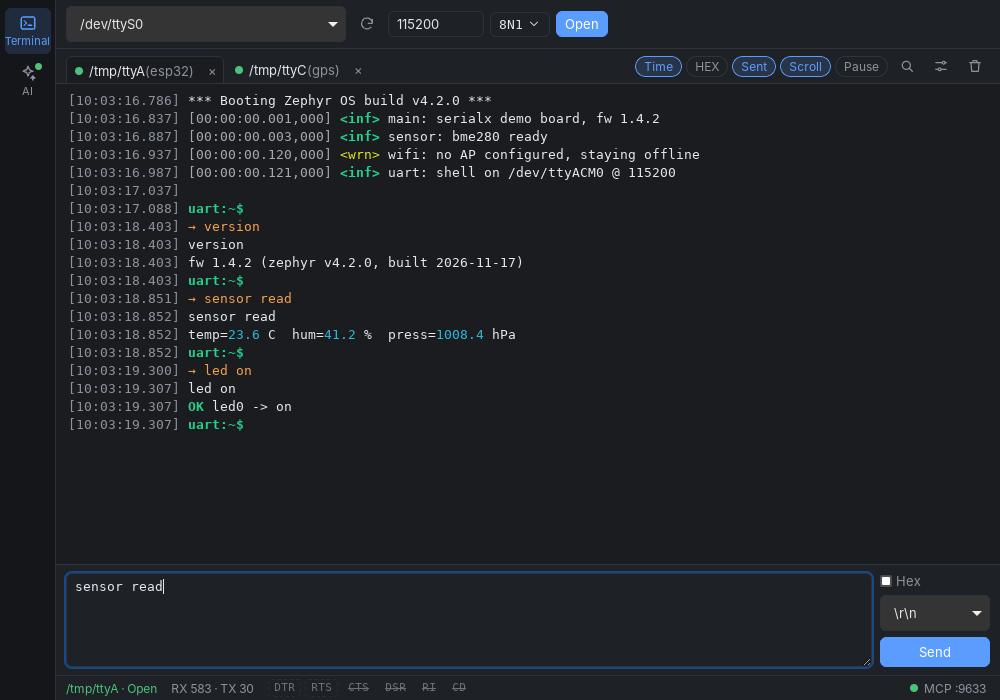
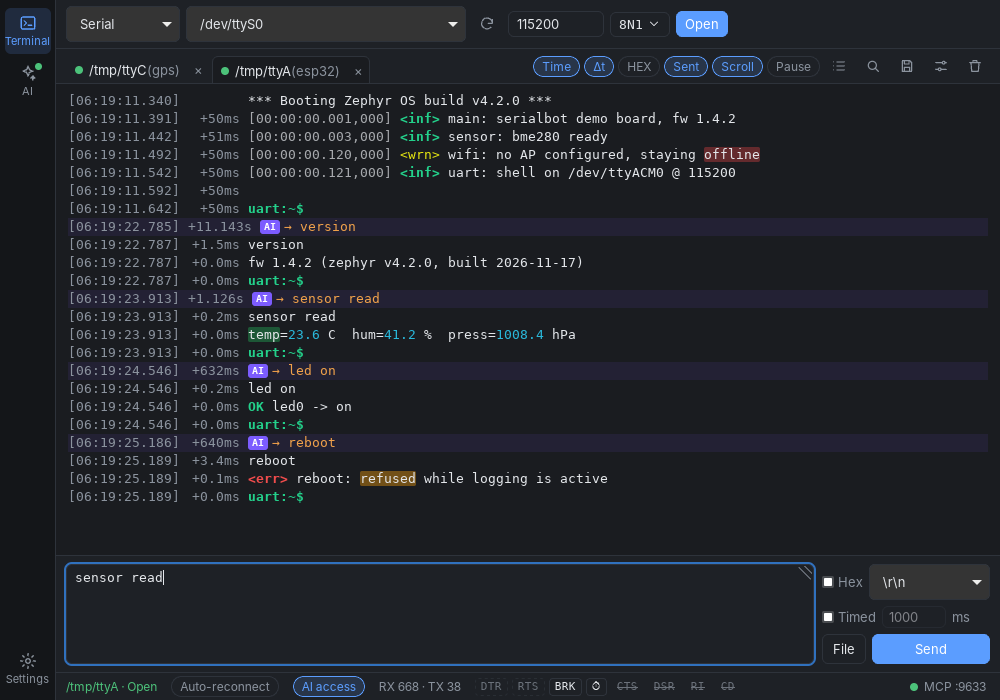
docs: regroup the README features and refresh the screenshots (#52)

diff --git a/README.md b/README.md
@@ -8,65 +8,78 @@
 
 [![CI](https://github.com/jerry-token/serialbot/actions/workflows/ci.yml/badge.svg)](https://github.com/jerry-token/serialbot/actions/workflows/ci.yml)
 [![Release](https://img.shields.io/github/v/release/jerry-token/serialbot?include_prereleases&label=release&color=orange)](https://github.com/jerry-token/serialbot/releases)
-![Platforms](https://img.shields.io/badge/platform-Windows%20%7C%20macOS%20%7C%20Linux-blue)
+![Platforms](https://img.shields.io/badge/platform-Windows%20%7C%20macOS%20%7C%20Linux%20%28x64%2C%20arm64%29-blue)
 [![License](https://img.shields.io/badge/license-GPL--3.0-green)](LICENSE)
 
 English · [简体中文](README.zh-CN.md)
 
-<img src="docs/images/demo.gif" width="800" alt="An AI agent opens a port over MCP, sends commands and waits for replies while the window shows every step">
+<img src="docs/images/demo.gif" width="800" alt="An AI agent asks to open a port and send commands; the user approves and the commands appear in the log tagged AI">
 
-<sub>☝ Claude Code opens a dev board's port over MCP, sends commands and waits for the replies. The window shows every step.</sub>
+<sub>☝ An AI agent opens a dev board's port over MCP and sends commands. You approve, and every step shows up in the window, tagged AI.</sub>
 
 </div>
 
 > [!NOTE]
-> 🚧 **Alpha.** The basics work. Please try it and [report problems](https://github.com/jerry-token/serialbot/issues).
+> 🚧 **Alpha.** Everyday debugging and AI control work. Please try it and [report problems](https://github.com/jerry-token/serialbot/issues).
 
 ## ✨ Features
 
-- 🪶 **Lightweight**: a Windows installer of about 4.5 MB, or a portable exe of about 19 MB that runs without installing.
-- 💻 **Cross-platform**: Windows, macOS (Apple Silicon and Intel) and Linux (x64 and arm64).
-- 🗂 **Many ports at once**: one tab per port, each with its own log and counters.
-- 🌈 **Receive view**:
-  - text or HEX, with millisecond timestamps
-  - **ANSI colors** (Zephyr, ESP-IDF and other colored logs)
-  - encodings: UTF-8, GBK, GB18030, Big5, Shift_JIS and more
-  - auto frame split, pause, `Ctrl/Cmd+F` search
-  - stays smooth with tens of thousands of lines
-- ✍ **Send**: multi-line text or HEX, with a choice of line ending. `Enter` sends, `Shift+Enter` adds a line, `↑` recalls history; timed send.
-  Data goes out as raw bytes, exactly as typed: no framing or protocol is added, only the line ending you pick (none for HEX).
-- 🧮 **Checksums** for HEX data: CRC-8, CRC-16 (Modbus, CCITT), CRC-32, XOR, SUM8 and LRC are appended as you send.
-- 🔎 **Search and filter**: `Ctrl/Cmd+F` finds text in the log; "Only matching lines" hides the rest. **Δt** shows the time since the line before, which in HEX view is the gap between frames.
-- 🖍 **Keyword highlight**: list words such as `ERROR` or `WARN` in the display settings (⚙) and they are marked in color wherever they appear.
-- ⚙ **Settings**: light, dark or system theme, log font size, how many lines each session keeps, and keeping the window on top.
-- 📋 **Command lists**: saved commands in groups; click one to send it, or run a group in order with a delay after each.
-- 📄 **Send a file** in chunks, with an optional pause between chunks for devices without flow control.
-- 💾 **Save the log** once or keep writing it to a file as data arrives.
-- 🌐 **TCP and UDP** besides serial ports: TCP client, TCP server (one client at a time, connects and leaves are logged) and UDP. Pick the type at the left of the connection bar; for AI agents, open `tcp://host:port`, `tcp-server://:port` or `udp://host:port?local=:port` like a port.
-- 🔁 **Auto-reconnect**: unplug and replug the adapter and the session carries on; the port list follows hot-plug.
-- 🎛 **Signals**: DTR / RTS switches, CTS / DSR / RI / CD lamps, and every change is marked in the log.
-  BRK sends a BREAK; ⏱ runs a timed DTR/RTS sequence such as `DTR=0 RTS=1, 100, RTS=0` (a reset pulse).
-- 🤖 **AI-ready**: a built-in MCP server lets Claude Code and other agents
-  - list and open ports
-  - send data and wait for a matching reply
-  - drive DTR / RTS
+**Light and everywhere**
+- 🪶 A Windows installer of about 4.5 MB, or a portable exe of about 19 MB that runs without installing.
+- 💻 Windows, macOS (Apple Silicon and Intel) and Linux (x64 and arm64, Raspberry Pi included).
 
-  A port you opened in the window can be used by the agent, and everything the agent sends shows up in the window,
-  tinted and tagged **AI**. Turn off **AI access** in the status bar to keep a session away from agents.
-  Before an agent sends data, toggles a line or opens, closes or reconfigures a port, SerialBot asks you:
-  allow once, allow for the session, or deny (unanswered requests are refused after 60 s).
-  You can turn the question off in the MCP settings.
+**Connect**
+- 🗂 Many ports at once: one tab per port, each with its own log and counters.
+- 🌐 TCP client, TCP server and UDP besides serial ports; pick the type at the left of the connection bar.
+- 🔁 Unplug and replug the adapter and the session carries on; the port list follows hot-plug.
+- 🎛 DTR / RTS switches, CTS / DSR / RI / CD lamps, **BRK** for a BREAK, and **⏱** for a timed DTR/RTS sequence such as `DTR=0 RTS=1, 100, RTS=0` (a reset pulse). Every change is marked in the log.
+
+**Receive**
+- 🌈 Text or HEX with millisecond timestamps, **ANSI colors** (Zephyr, ESP-IDF and other colored logs), and encodings such as UTF-8, GBK, GB18030, Big5 and Shift_JIS.
+- ✂ Auto frame split by gap; **Δt** shows the time since the line before, so in HEX view you see the gaps between frames.
+- 🔎 `Ctrl/Cmd+F` search, "only matching lines" filter, and **keyword highlight** (`ERROR`, `WARN`, … in ⚙).
+- ⏸ Pause, and smooth scrolling through tens of thousands of lines.
+- 💾 Save the log once, or keep writing it to a file as data arrives.
+
+**Send**
+- ✍ Multi-line text or HEX with a choice of line ending. `Enter` sends, `Shift+Enter` adds a line, `↑` recalls history. Data goes out as raw bytes, exactly as typed: only the line ending you pick is added.
+- 🧮 Checksums appended to HEX data: CRC-8, CRC-16 (Modbus, CCITT), CRC-32, XOR, SUM8, LRC.
+- ⏲ Timed send, 📋 saved command lists (click to send, or run a group in order), and 📄 file send in chunks.
+
+**AI agents, under your control**
+- 🤖 A built-in MCP server lets Claude Code, Claude Desktop and other agents list and open ports, send data, wait for replies and drive DTR / RTS, on the same sessions you see in the window.
+- ✅ Before an agent sends data, toggles a line or opens, closes or reconfigures a port, SerialBot asks you: **allow once**, **allow for the session**, or **deny** (unanswered requests are refused after 60 s).
+- 🟣 Everything an agent did is tagged **AI** in the log; **AI access** in the status bar keeps a session away from agents.
+- 🔒 The server is off until you turn it on, listens on `127.0.0.1` only and needs a token.
+
+**Comfortable**
+- 🌗 Light, dark or system theme; log font size; lines kept per session; keep the window on top.
+- 🌏 English and Chinese.
 
 ## 📸 Screenshots
 
 | Dark | Light |
 |:---:|:---:|
-| <img src="docs/images/terminal-dark.png" alt="Terminal page in the dark theme"> | <img src="docs/images/terminal-light.png" alt="Terminal page in the light theme"> |
+| <img src="docs/images/terminal-dark.png" alt="Terminal in the dark theme: an agent's commands tagged AI, keywords highlighted, Δt column"> | <img src="docs/images/terminal-light.png" alt="The same terminal in the light theme"> |
+
+<details>
+<summary>✅ Approving what an AI agent wants to do</summary>
+
+<img src="docs/images/approval.png" width="800" alt="Dialog: an AI agent wants to write version to /tmp/ttyA; Allow, Allow for this session, Deny">
+
+</details>
 
 <details>
 <summary>🤖 AI page: MCP server settings</summary>
 
-<img src="docs/images/ai-dark.png" width="800" alt="AI page with the MCP server enabled and the claude mcp add command">
+<img src="docs/images/ai-dark.png" width="800" alt="AI page with the MCP server enabled, the confirmation setting and the Claude Code and Claude Desktop snippets">
+
+</details>
+
+<details>
+<summary>⚙ Settings</summary>
+
+<img src="docs/images/settings-dark.png" width="800" alt="Settings page: theme, log font size, lines kept, keep on top">
 
 </details>
 
@@ -102,9 +115,9 @@ Get the file for your system from [Releases](https://github.com/jerry-token/seri
 ## 🚀 Quick start
 
 1. 🔌 Plug in a USB-serial adapter, pick the port at the top and set the baud rate. Data bits, parity, stop bits and flow control are under `8N1 ▾`. Then press **Open**.
-2. 📥 The receive view shows timestamps by default. The chips at the top right switch HEX view, sent data, auto-scroll and pause. 🔍 searches; ⚙ sets the encoding, frame gap and ANSI colors.
+2. 📥 The receive view shows timestamps by default. The chips at the top right switch Δt, HEX view, sent data, auto-scroll and pause. 🔍 searches; ⚙ sets the encoding, frame gap, ANSI colors and highlighted keywords.
 3. 📤 Type a command in the box at the bottom and press `Enter`. Tick HEX to send bytes such as `01 03 00 00`.
-4. 🎛 To reset a board, use **DTR / RTS** in the status bar.
+4. 🎛 To reset a board, use **DTR / RTS** in the status bar, or **⏱** for a timed sequence.
 
 > [!TIP]
 > Keep flow control at "None" unless your board wires CTS. With RTS/CTS on and CTS inactive, nothing gets sent.
@@ -118,6 +131,7 @@ Get the file for your system from [Releases](https://github.com/jerry-token/seri
      --header "Authorization: Bearer <your token>"
    ```
 3. Ask Claude Code: *"List the serial ports, open the ESP32 one and send `version`."* 🎉
+4. ✅ SerialBot asks before the agent opens the port or sends anything. Pick **Allow for this session** to stop being asked for that port, or untick "Ask before AI agents send data or change a port" on the AI page.
 
 **Claude Desktop** (and other clients that only start stdio servers): copy the second snippet on the AI page into `claude_desktop_config.json`. It runs `serialbot mcp`, a small bridge to the running app, so SerialBot must be open with the MCP server on:
 
@@ -143,22 +157,17 @@ On Windows the command is the path of `serialbot.exe` (installed or portable); o
 
 ## 🗺 Roadmap
 
-- [x] Serial I/O, multiple sessions, timestamps, HEX
-- [x] ANSI colors, encodings, frame split, search, smooth large logs
-- [x] DTR / RTS and line states
-- [x] Built-in MCP server
-- [x] Installers for all three platforms, published automatically
-- [x] Timed send, send history
-- [x] Send a file
-- [x] Command lists (groups, run in order)
-- [x] Save received data to a file, export
-- [x] Hot-plug detection, auto-reconnect
-- [x] TCP client / server, UDP
-- [x] AI write confirmation, per-session AI access, AI-sent lines tagged
-- [x] Checksums, BREAK, timed DTR/RTS sequences
-- [x] Log filter, Δt, keyword highlight; settings page
-- [ ] Line numbers and favorites, TCP server with several clients, command list in its own window
+- [x] Serial, TCP and UDP; many sessions; text / HEX, ANSI colors, encodings, frame split
+- [x] Send: history, timed send, command lists, files, checksums
+- [x] Signals: DTR / RTS, line states, BREAK, timed sequences
+- [x] Log: search, filter, Δt, keyword highlight, save and capture
+- [x] Built-in MCP server (HTTP and stdio), approvals, per-session AI access
+- [x] Installers for Windows, macOS and Linux (x64 / arm64), published automatically
+- [ ] TCP server with several clients, command list in its own window
+- [ ] Terminal mode (VT100, interactive shells) and waveform plots
 - [ ] Built-in AI assistant "Bo"
+- [ ] JS scripts
+- [ ] BLE
 
 ## 🛠 Build from source
 
